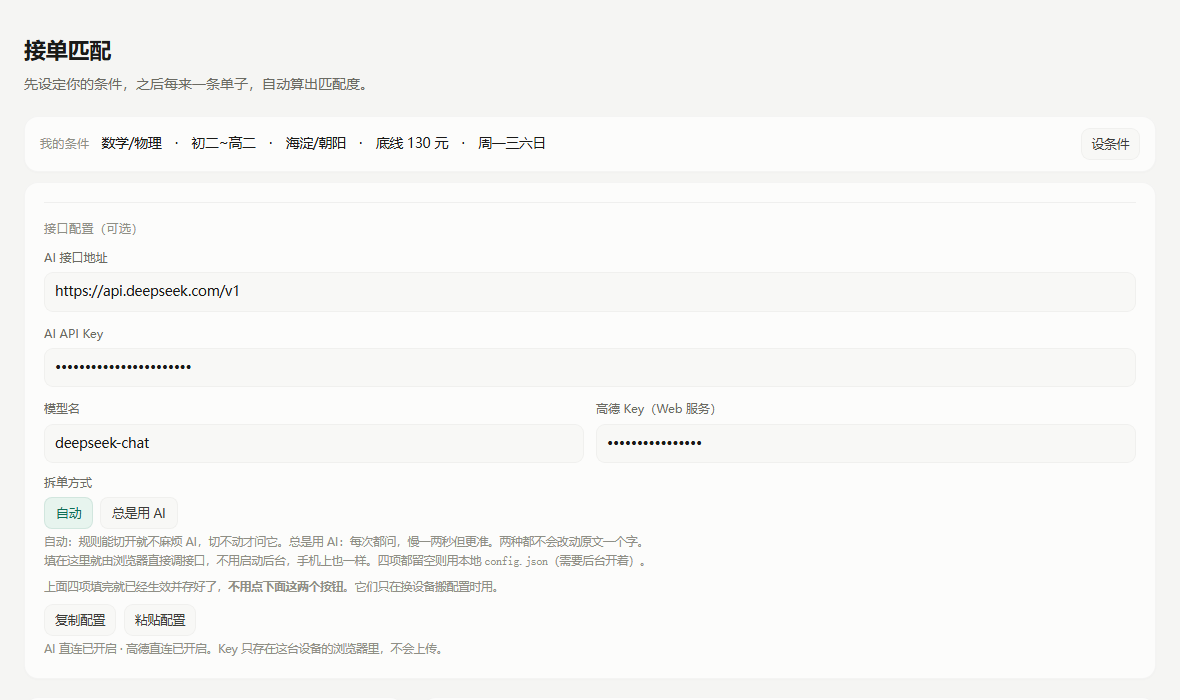
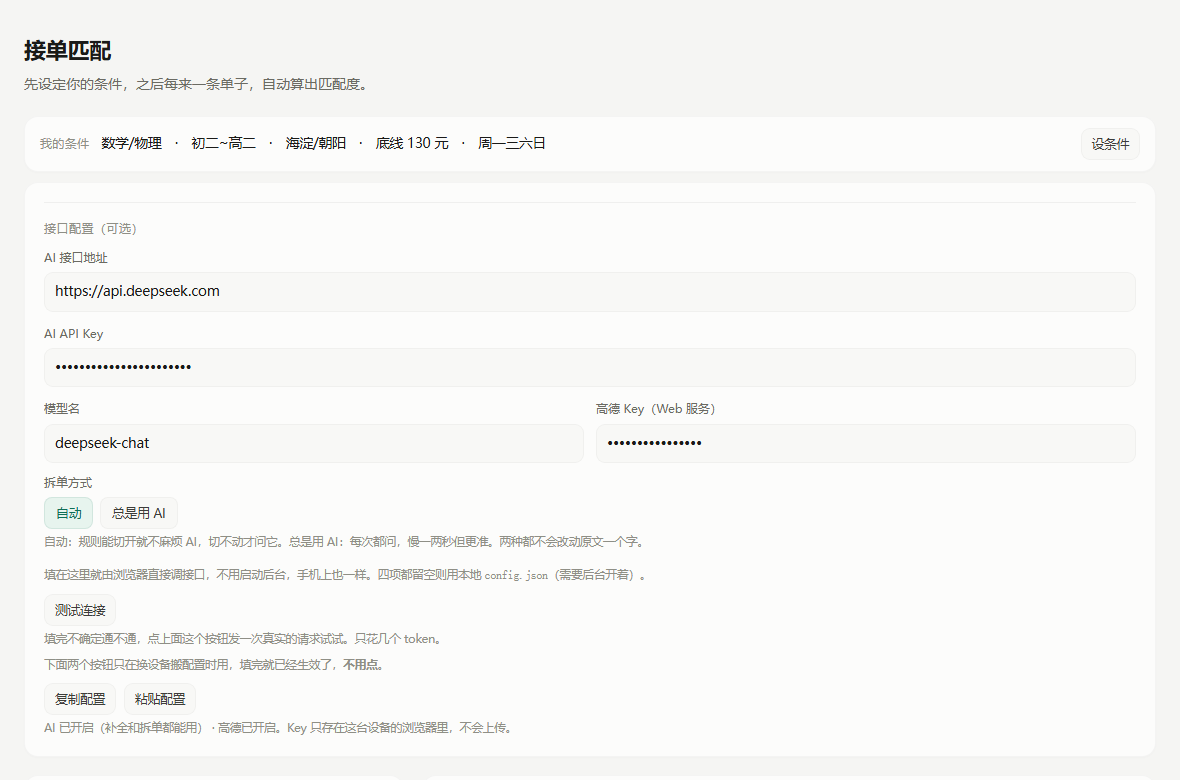
fix: 模型名默认填 deepseek-chat，加测试连接按钮（v1.6.2）
模型名原来只有 placeholder（灰色占位），看着像已填好，实际是空。
而 aiDirect() 要求地址/Key/模型名三项齐全，空着一个请求都不发，
用户会以为「填了 Key 却没反应」。

- 默认值改成 deepseek-chat，输入框里显示实字
- 老用户迁移：空模型名 + DeepSeek 地址自动补上，别家地址不动
- 加「测试连接」按钮：真发一次请求（max_tokens 4），401 时带上
  接口返回的原始错误信息
- 「还差某项没填」只看地址和 Key，否则新用户会被判成还差

实测确认 api.deepseek.com 和 api.deepseek.com/v1 两个路径都返回
401 而不是 404，结尾加不加 /v1 都对。

diff --git a/index.html b/index.html
@@ -528,8 +528,12 @@ textarea::placeholder{color:var(--faint);opacity:.75}
         </div>
         <div class="h">自动：规则能切开就不麻烦 AI，切不动才问它。总是用 AI：每次都问，慢一两秒但更准。两种都不会改动原文一个字。</div>
       </div>
-      <div class="fld"><div class="h" style="margin-top:0">填在这里就由浏览器直接调接口，不用启动后台，手机上也一样。四项都留空则用本地 <code>config.json</code>（需要后台开着）。</div></div>
-      <div class="fld" style="margin-top:2px"><div class="h" style="margin-top:8px">上面四项填完就已经生效并存好了，<strong>不用点下面这两个按钮</strong>。它们只在换设备搬配置时用。</div></div>
+      <div class="fld" style="margin-top:14px"><div class="h" style="margin-top:0">填在这里就由浏览器直接调接口，不用启动后台，手机上也一样。四项都留空则用本地 <code>config.json</code>（需要后台开着）。</div></div>
+      <div style="display:flex;gap:8px;margin-top:10px;flex-wrap:wrap">
+        <button class="btn-ghost" id="apiTest" type="button">测试连接</button>
+      </div>
+      <div class="fld"><div class="h" style="margin-top:4px">填完不确定通不通，点上面这个按钮发一次真实的请求试试。只花几个 token。</div></div>
+      <div class="fld" style="margin-top:2px"><div class="h" style="margin-top:8px">下面两个按钮只在换设备搬配置时用，填完就已经生效了，<strong>不用点</strong>。</div></div>
       <div style="display:flex;gap:8px;margin-top:8px;flex-wrap:wrap">
         <button class="btn-ghost" id="apiExport" type="button">复制配置</button>
         <button class="btn-ghost" id="apiImport" type="button">粘贴配置</button>
@@ -1382,7 +1386,7 @@ textarea::placeholder{color:var(--faint);opacity:.75}
     if(!api.aiBase) miss.push('接口地址');
     if(!api.aiKey) miss.push('API Key');
     if(!api.aiModel) miss.push('模型名');
-    if(!aiDirect() && (api.aiBase || api.aiKey || api.aiModel)){
+    if(!aiDirect() && (api.aiBase || api.aiKey)){
       el.textContent = 'AI 还差「' + miss.join('、') + '」没填，三项都填了才会生效。';
       return;
     }
@@ -1424,6 +1428,44 @@ textarea::placeholder{color:var(--faint);opacity:.75}
       initMap();
       if(current) openDetail(current, cache.length || 1);
     }, 600);
+  }
+
+  // 填完不知道通不通，就发一次真请求。比让用户去猜「为什么没反应」强。
+  function testApi(){
+    readApiForm();
+    var el = document.getElementById('apiHint');
+    var miss = [];
+    if(!api.aiBase) miss.push('接口地址');
+    if(!api.aiKey) miss.push('API Key');
+    if(!api.aiModel) miss.push('模型名');
+    if(miss.length){
+      el.textContent = '还差「' + miss.join('、') + '」没填，三项齐了才能测。';
+      return;
+    }
+
+    el.textContent = '正在连「' + api.aiModel + '」…';
+    var url = api.aiBase.replace(/\/+$/, '') + '/chat/completions';
+    fetch(url, {
+      method: 'POST',
+      headers: {'Content-Type':'application/json', 'Authorization':'Bearer ' + api.aiKey},
+      body: JSON.stringify({
+        model: api.aiModel,
+        messages: [{role:'user', content:'ping'}],
+        max_tokens: 4
+      })
+    }).then(function(r){
+      if(r.ok){
+        el.textContent = '连上了，「' + api.aiModel + '」可以用。AI 补全和拆单都已生效。';
+        return;
+      }
+      return r.text().then(function(t){
+        var extra = '';
+        try{ extra = ((JSON.parse(t) || {}).error || {}).message || ''; }catch(e){}
+        el.textContent = '没连上：' + aiHttpHint(r.status) + (extra ? '。' + String(extra).slice(0, 80) : '');
+      });
+    }).catch(function(e){
+      el.textContent = '没连上：' + String((e && e.message) || e).slice(0, 100) + '（网络不通或跨域被拦）';
+    });
   }
 
   function exportApi(){
@@ -1579,7 +1621,9 @@ textarea::placeholder{color:var(--faint);opacity:.75}
   // 但两家接口都放行跨域（高德是 *，DeepSeek 回显任意 Origin），
   // 所以也可以把 Key 存在浏览器本地、由页面直接调，不需要后台。
   // 优先级：页面里填过就用页面的，没填才回落到本地后台的 config.json。
-  var api = {aiBase:'', aiKey:'', aiModel:'', amapKey:'', splitMode:'auto'};
+  // 模型名给个默认值。留空的话 aiDirect() 直接 false，一个请求都不会发，
+  // 而输入框里的灰色 deepseek-chat 看起来像已经填了，用户根本意识不到漏了。
+  var api = {aiBase:'', aiKey:'', aiModel:'deepseek-chat', amapKey:'', splitMode:'auto'};
   var API_STORE = 'tutor-api-v1';
   var _geoCache = {};
   var _routeCache = {};
@@ -1593,6 +1637,9 @@ textarea::placeholder{color:var(--faint);opacity:.75}
         });
       }
     }catch(e){}
+    // 老用户存的是空模型名，升级后会自动被空值覆盖掉默认值。
+    // 填的是 DeepSeek 地址却卡在「没填模型名」的话，替他补上。
+    if(!api.aiModel && /deepseek/i.test(api.aiBase)) api.aiModel = 'deepseek-chat';
   }
 
   function saveApi(){
@@ -2514,6 +2561,7 @@ textarea::placeholder{color:var(--faint);opacity:.75}
 
     ['fAiBase','fAiKey','fAiModel','fAmapKey']
       .forEach(function(id){ document.getElementById(id).addEventListener('input', onApiChanged); });
+    document.getElementById('apiTest').addEventListener('click', testApi);
     document.getElementById('apiExport').addEventListener('click', exportApi);
     document.getElementById('apiImport').addEventListener('click', importApi);
 

diff --git a/使用说明.html b/使用说明.html
@@ -300,16 +300,21 @@ tr:last-child td{border-bottom:0}
 <p><strong>推荐在页面上填</strong>，不用碰任何文件：点右上角「设条件」，拉到最下面的「接口配置」，填 AI 接口地址、API Key、模型名三项，收起面板就生效。</p>
 <ol class="steps">
   <li>去模型厂商那边申请一个 API Key，DeepSeek、Kimi、智谱、通义选一个，注册后充几块钱。</li>
-  <li>页面「设条件 → 接口配置」里填三项：地址 <code>https://api.deepseek.com/v1</code>、你的 Key、模型名 <code>deepseek-chat</code>。</li>
+  <li>页面「设条件 → 接口配置」里填三项：地址 <code>https://api.deepseek.com</code>、你的 Key、模型名 <code>deepseek-chat</code>（这一项默认已经填好）。</li>
+  <li>点一下「<strong>测试连接</strong>」，它会真的发一次请求，立刻告诉你通没通。</li>
   <li>收起面板，随便粘一条单子试，能补全就说明通了。</li>
 </ol>
 <p class="sub">填完就生效并存好了，<strong>不用点任何按钮</strong>。Key 只存在这台设备的浏览器里，不上传。换手机或换电脑时，点「复制配置」把那段文字复制走，到新设备点「粘贴配置」贴进去，不用重填。</p>
+<div class="note">
+  <div class="t">填了 Key 却没反应？多半是漏了一项</div>
+  地址、Key、模型名<strong>三项齐全</strong>才会生效，少一项就一个请求都不会发。漏的那项会在「接口配置」最底下写明。点「测试连接」能直接确认。
+</div>
 <p class="sub">不想在页面上填、或者只想让电脑后台用，也可以照老办法：把 <code>config.example.json</code> 复制成 <code>config.json</code>，填好 <code>api_key</code>，重启监听程序。两种都配了以页面里填的为准。</p>
 
 <h4>常见厂商怎么填</h4>
 <table class="vtab">
   <tr><th style="width:15%">厂商</th><th>base_url</th><th style="width:22%">model</th></tr>
-  <tr><td>DeepSeek</td><td><code>https://api.deepseek.com/v1</code></td><td><code>deepseek-chat</code></td></tr>
+  <tr><td>DeepSeek</td><td><code>https://api.deepseek.com</code></td><td><code>deepseek-chat</code></td></tr>
   <tr><td>Kimi</td><td><code>https://api.moonshot.cn/v1</code></td><td><code>moonshot-v1-8k</code></td></tr>
   <tr><td>智谱</td><td><code>https://open.bigmodel.cn/api/paas/v4</code></td><td><code>glm-4-flash</code></td></tr>
   <tr><td>通义千问</td><td><code>https://dashscope.aliyuncs.com/compatible-mode/v1</code></td><td><code>qwen-plus</code></td></tr>

diff --git a/CHANGELOG.md b/CHANGELOG.md
@@ -2,6 +2,23 @@
 
 格式参考 [Keep a Changelog](https://keepachangelog.com/zh-CN/1.1.0/)，版本号遵循 [语义化版本](https://semver.org/lang/zh-CN/)。
 
+## [1.6.2] - 2026-10-22
+
+配了 Key 却不生效的问题：模型名空着，界面看不出来。
+
+### 修复
+
+- **模型名默认填 `deepseek-chat`**。原来它是个 placeholder（灰色占位），看起来像已经填好了，实际是空的。而 `aiDirect()` 要求地址、Key、模型名三项齐全，模型名空着就一个请求都不发——用户会以为"填了 Key 怎么没反应"
+- 老用户迁移：存过空模型名、地址又是 DeepSeek 的，加载时自动补上 `deepseek-chat`。填的是别家地址的不动
+- 新增「**测试连接**」按钮：点一下发一次真请求（`max_tokens: 4`，几乎不花钱），直接告诉你通不通。401 会带上接口返回的原始错误信息，方便判断是 Key 错了还是别的问题
+- 「还差某项没填」的判断改为只看地址和 Key，不然模型名有默认值之后会把没人填过的新用户也判成"还差"
+
+### 顺带确认
+
+实测 `https://api.deepseek.com` 和 `https://api.deepseek.com/v1` 两个路径都返回 401（而不是 404），说明**结尾不加 `/v1` 也是对的**，两种写法都能用。
+
+---
+
 ## [1.6.1] - 2026-10-22
 
 当了一回测试者，按"会用坏的地方"过了一遍。

diff --git a/README.md b/README.md
@@ -212,11 +212,13 @@ o._realCommute        // 高德实测
 
 | 字段 | 填什么 |
 |---|---|
-| AI 接口地址 | `https://api.deepseek.com/v1` |
+| AI 接口地址 | `https://api.deepseek.com`（结尾加不加 `/v1` 都行） |
 | AI API Key | 你申请的 `sk-` 开头的 Key |
-| 模型名 | `deepseek-chat` |
+| 模型名 | `deepseek-chat`，默认已经填好了 |
 
-填完收起面板就生效，**不用再点别的按钮**。Key 存在浏览器的 localStorage 里，不会上传到任何服务器，也不需要启动后台——手机上打开同一个页面填一遍，AI 照样能用。
+填完收起面板就生效，**不用再点别的按钮**。不确定通不通，点一下「**测试连接**」——它真的发一次请求（只花几个 token），通不通立刻知道。
+
+Key 存在浏览器的 localStorage 里，不会上传到任何服务器，也不需要启动后台——手机上打开同一个页面填一遍，AI 照样能用。
 
 换设备时不用重填：点「**复制配置**」，到新设备点「**粘贴配置**」把那段贴进去。
 
